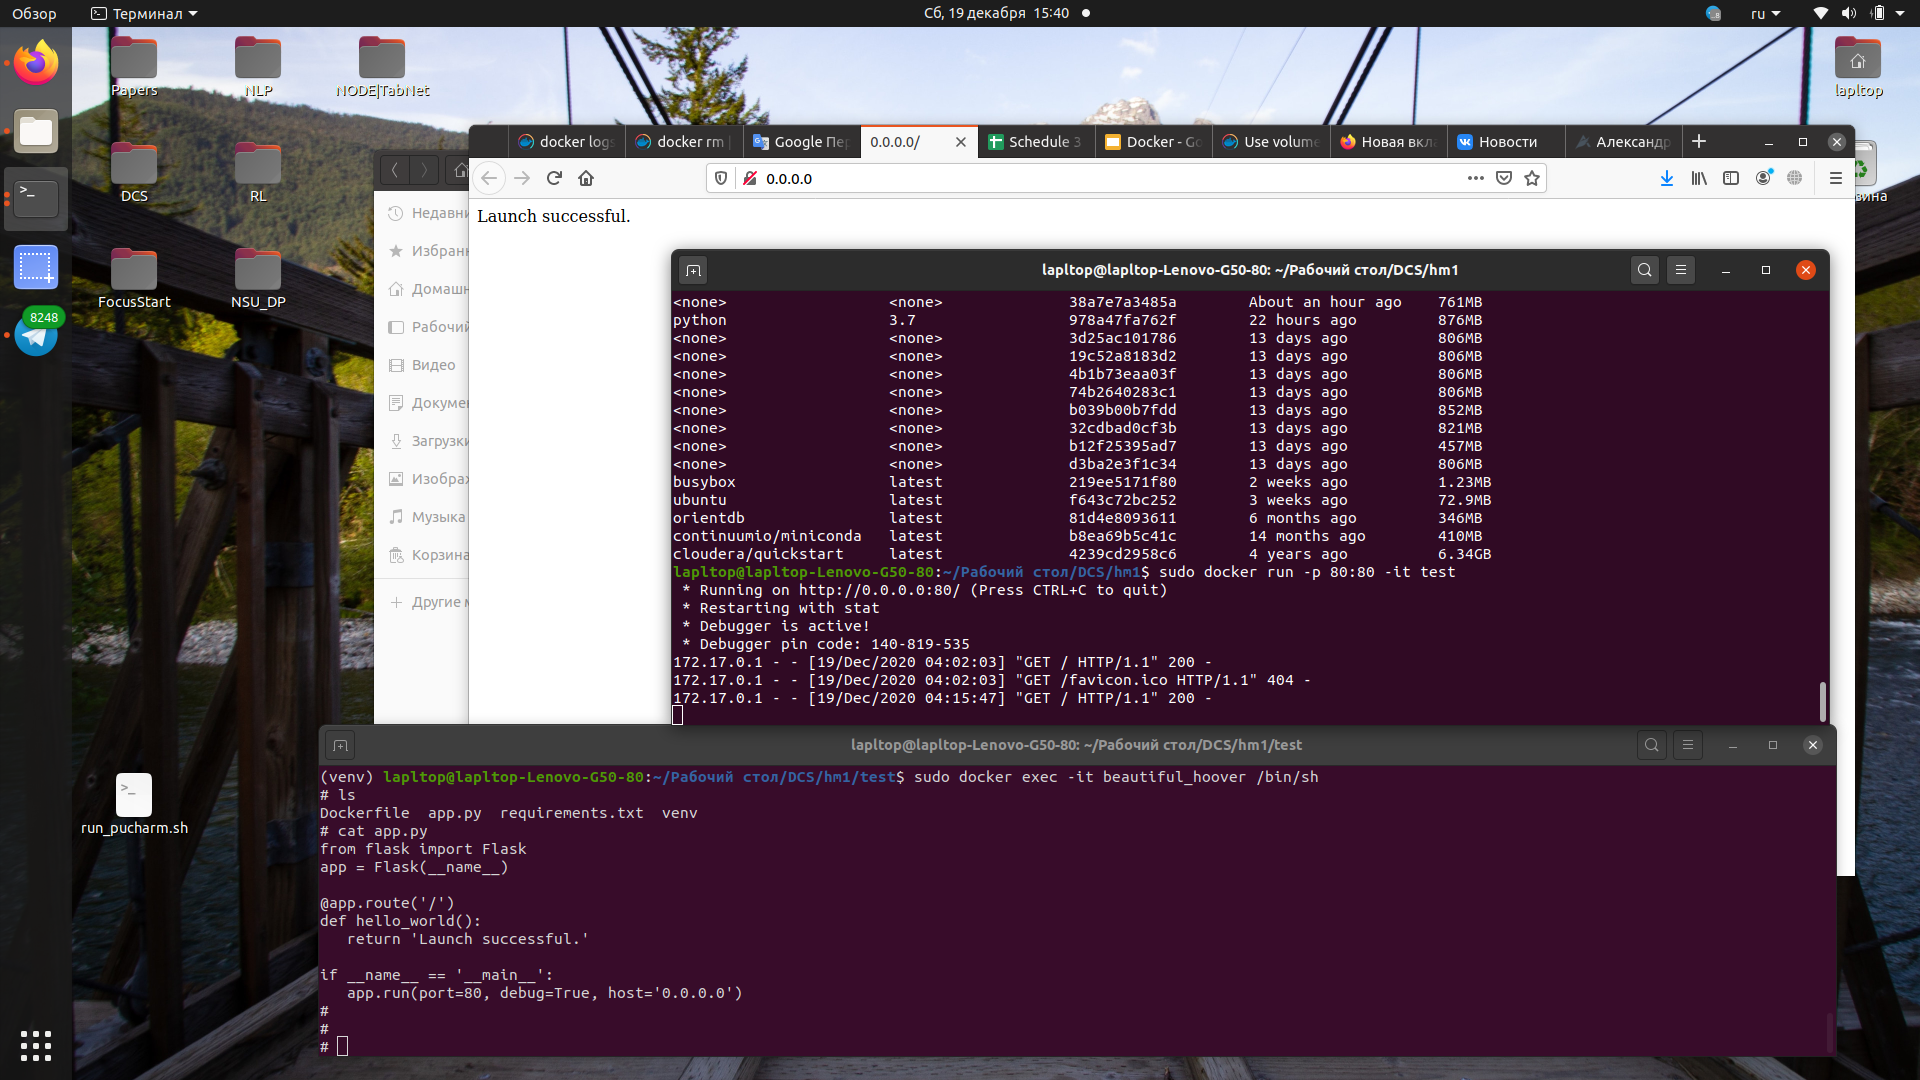
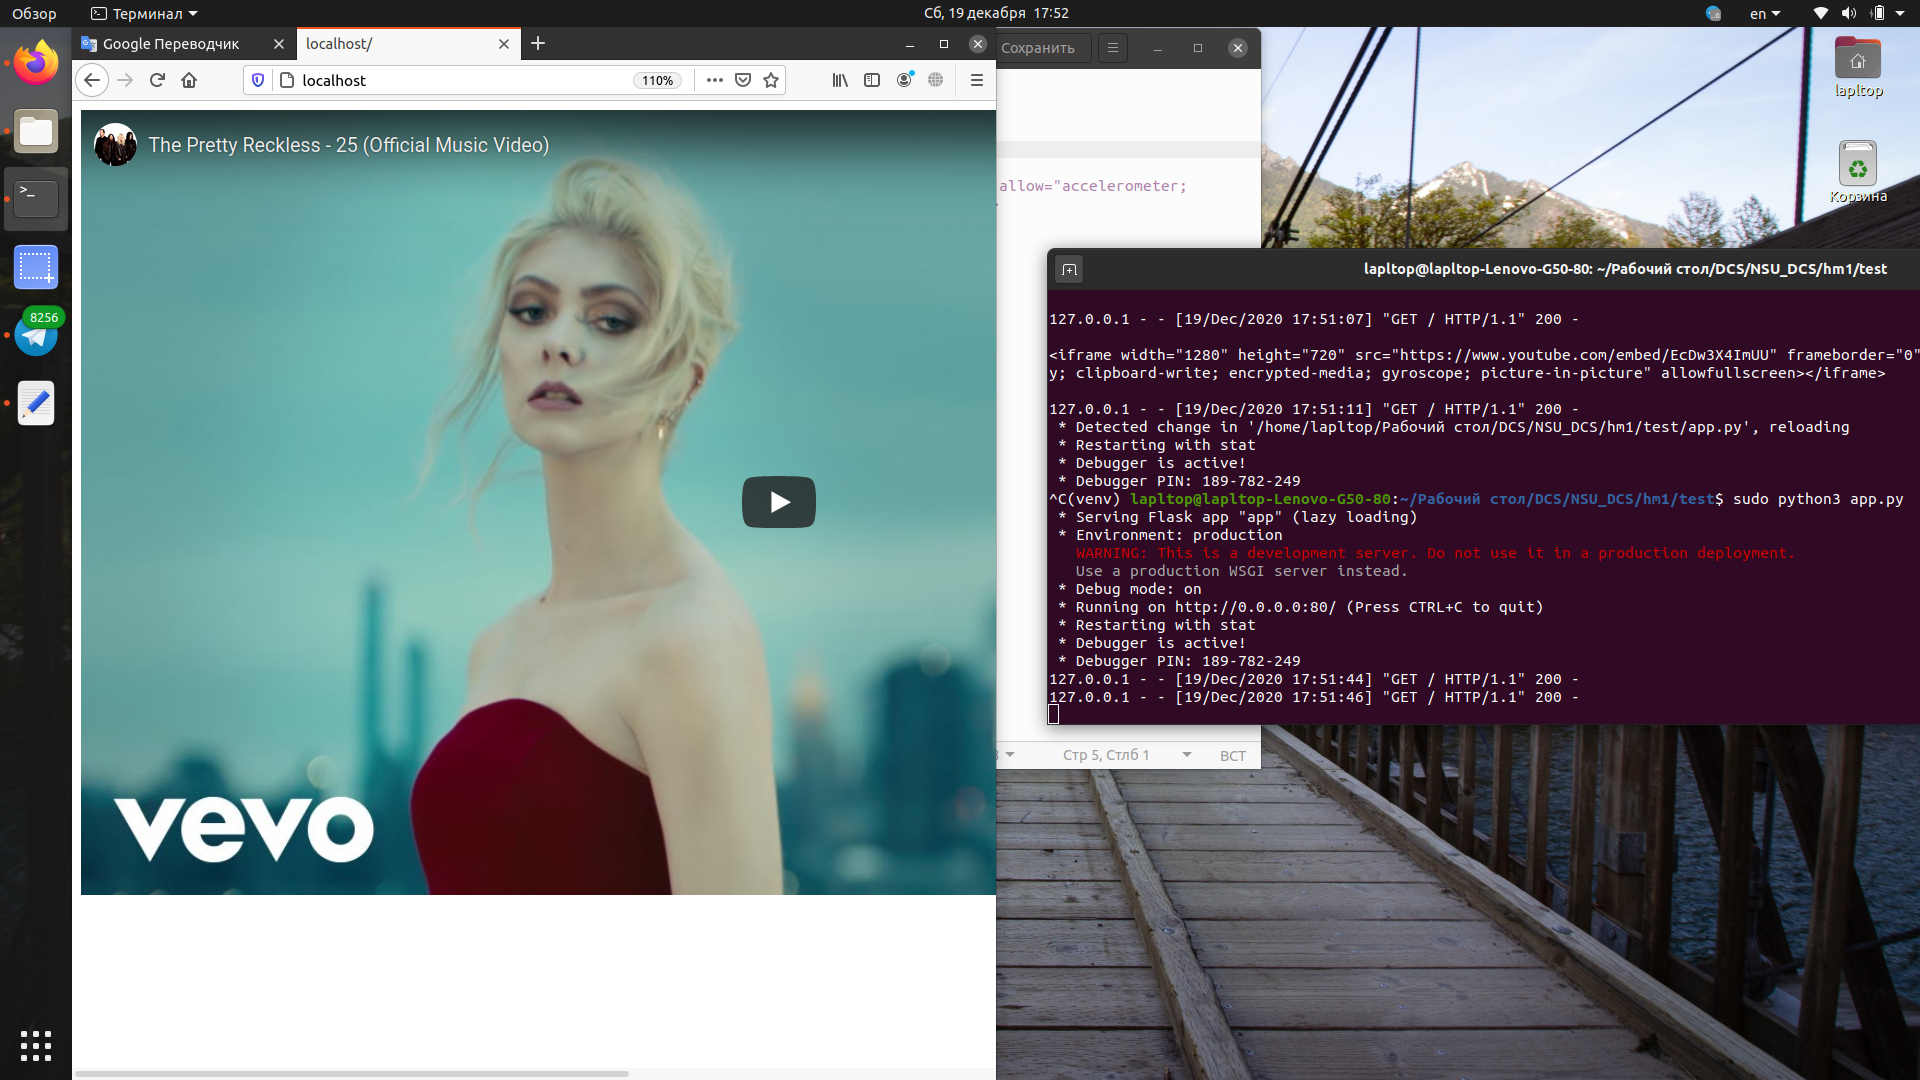
new content

diff --git a/hm1/test/app.py b/hm1/test/app.py
@@ -1,9 +1,27 @@
 from flask import Flask
+from string import Template
+import random
+from favorite_list import links
+
+HTML_TEMPLATE = Template("""
+<iframe width="1280" height="720" src="https://www.youtube.com/embed/${youtube_id}" frameborder="0" allow="accelerometer; autoplay; clipboard-write; encrypted-media; gyroscope; picture-in-picture" allowfullscreen></iframe>
+""")
+
 app = Flask(__name__)
- 
+
 @app.route('/')
-def hello_world():
-   return 'Launch successful.'
- 
+def homepage():
+    vid = random.choice(links)
+    return HTML_TEMPLATE.substitute(youtube_id=vid)
+
+@app.route('/videos/<vid>')
+def videos(vid):
+    return HTML_TEMPLATE.substitute(youtube_id=random.choice(links))
+
 if __name__ == '__main__':
-   app.run(port=80, debug=True, host='0.0.0.0')
+    app.jinja_env.auto_reload = True
+    app.config['TEMPLATES_AUTO_RELOAD'] = True
+    app.run(port=80, debug=True, host='0.0.0.0')
+
+
+

diff --git a/hm1/test/favorite_list.py b/hm1/test/favorite_list.py
@@ -1,0 +1,5 @@
+links = [
+	'EcDw3X4ImUU',
+	'As03tlODkdw',
+]
+
